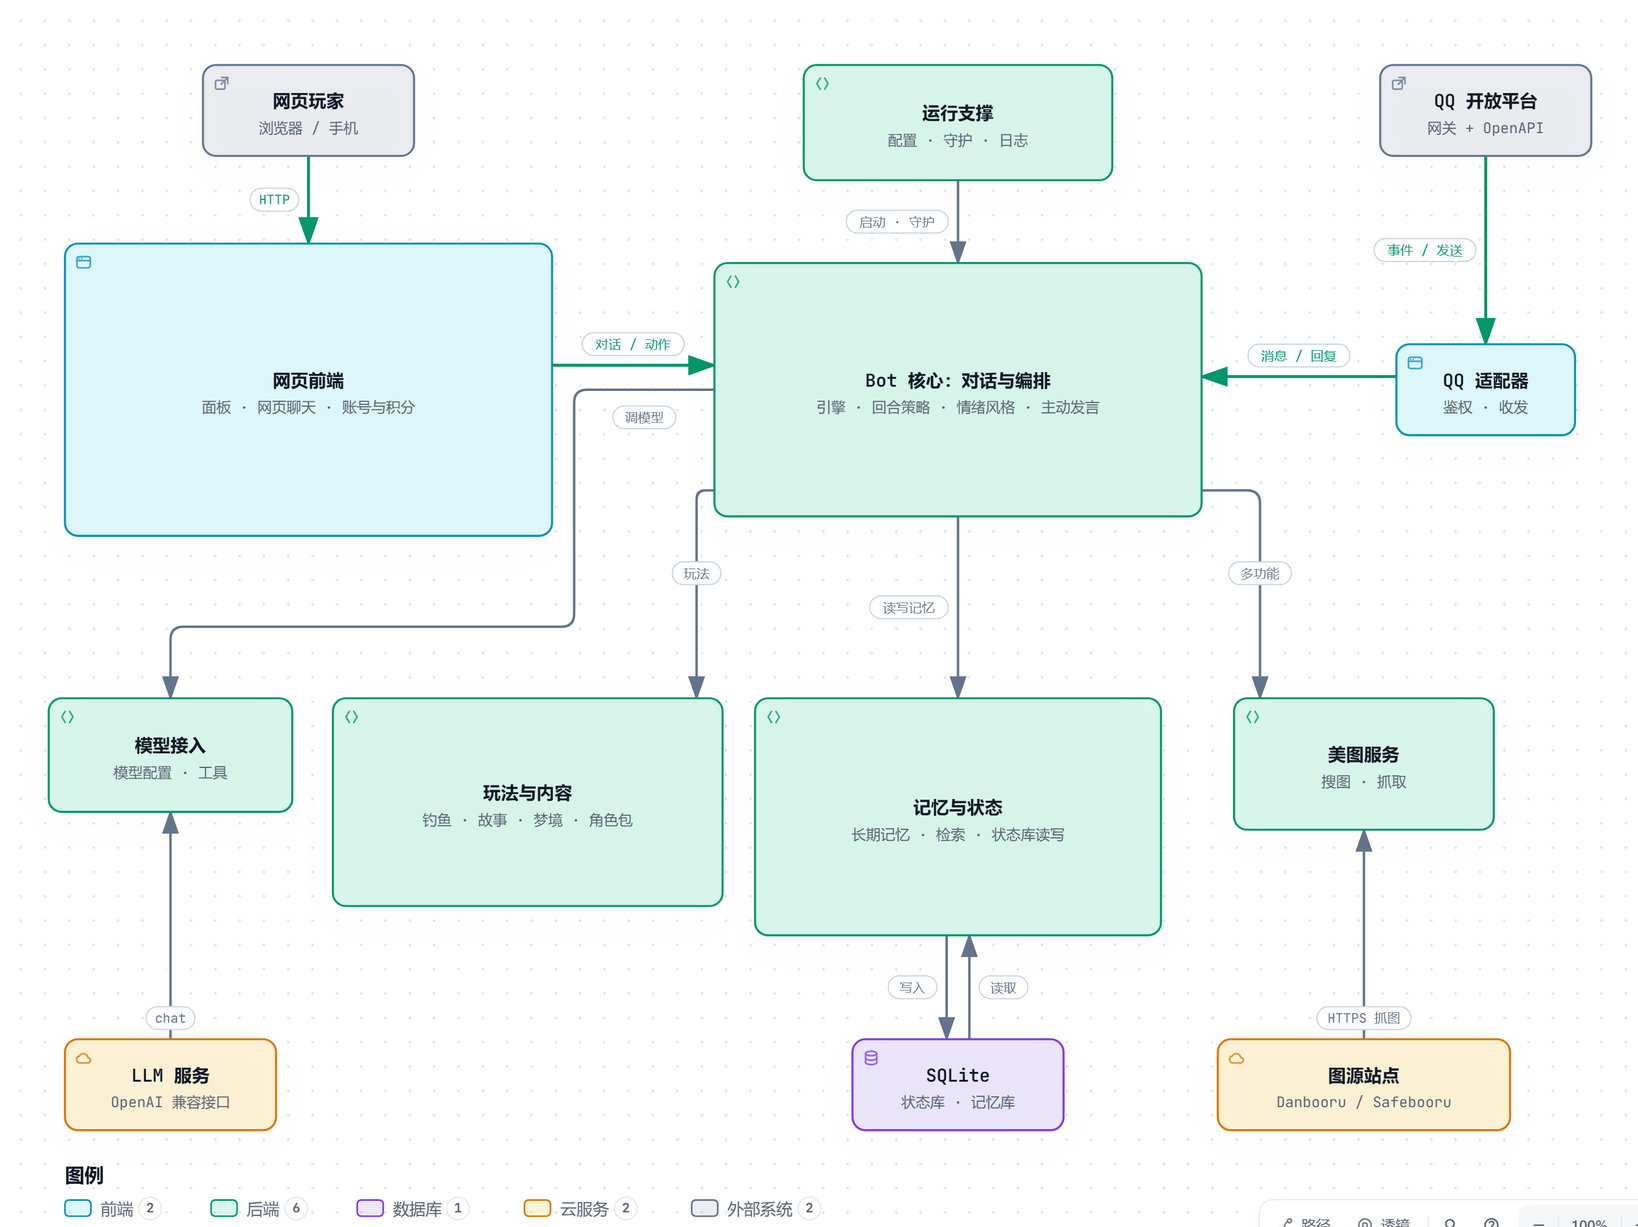
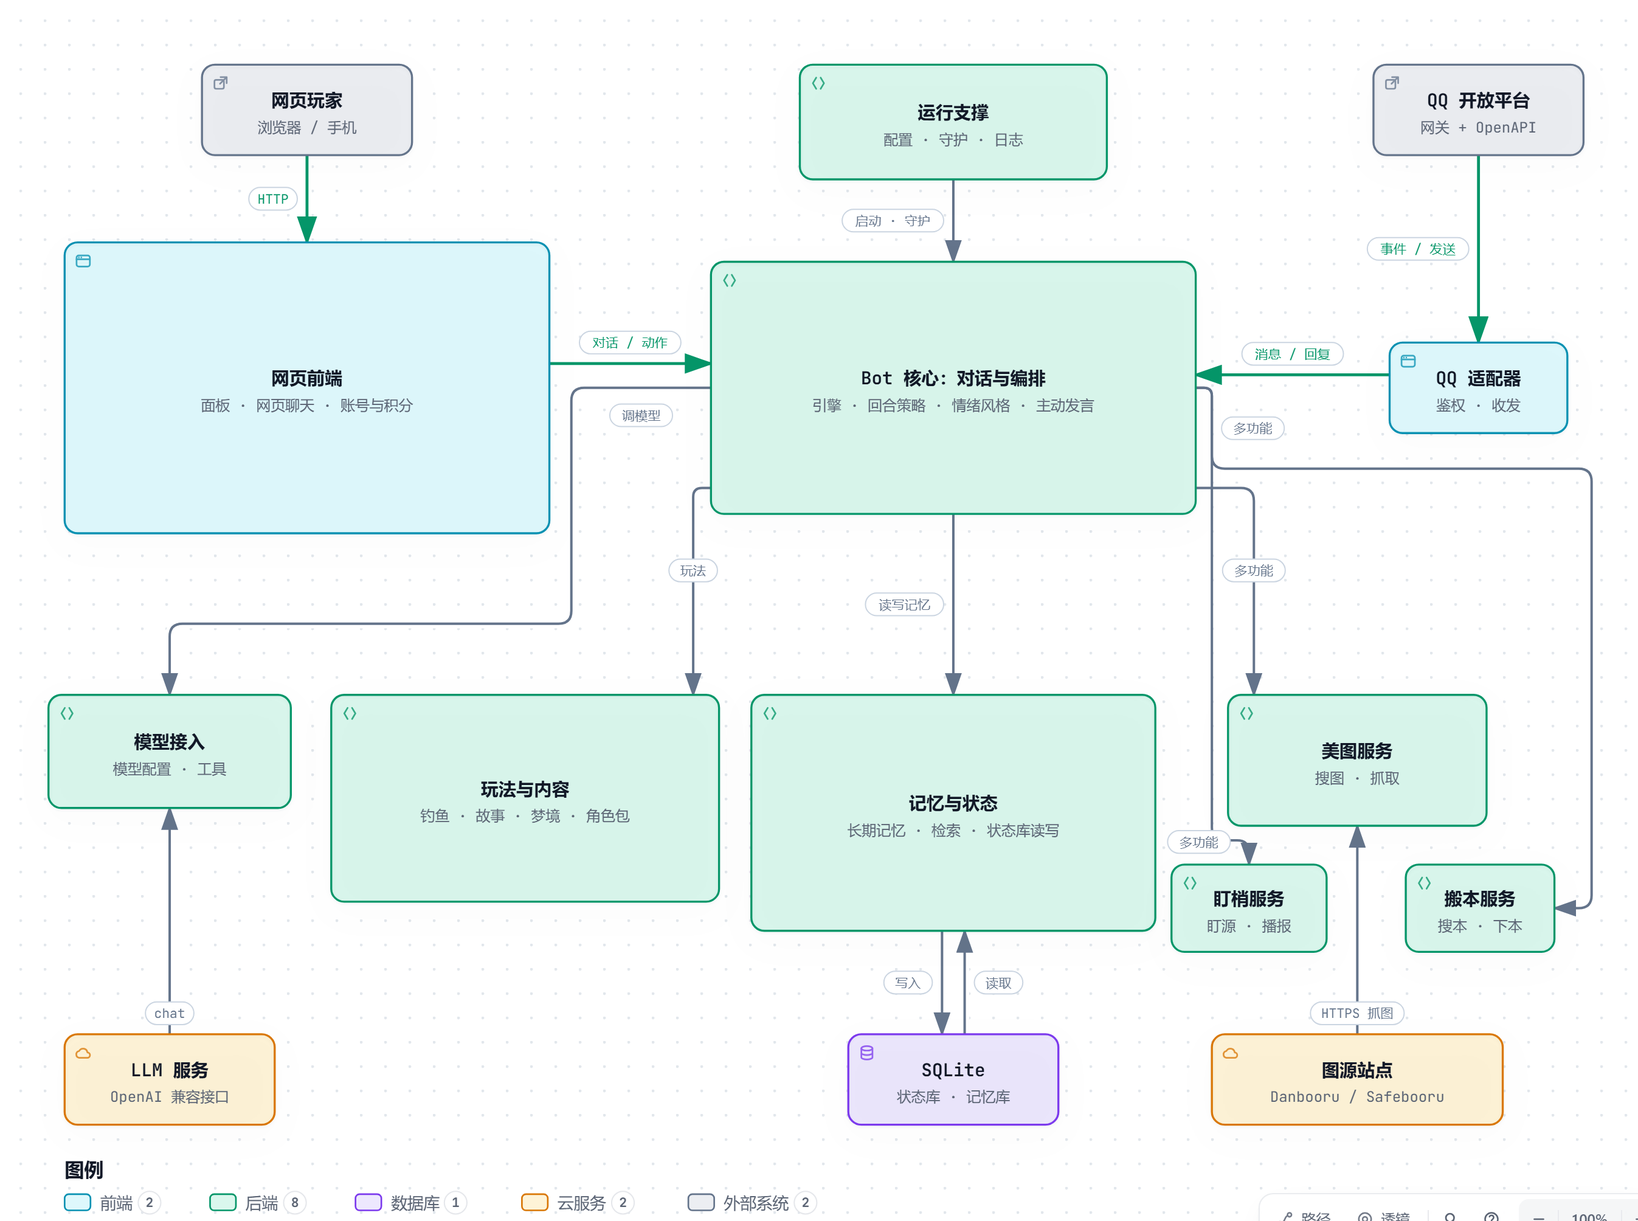
docs: README 架构图补盯梢/搬本多功能通路，新增英文 README (#77)
在现有总览架构图上新增「盯梢服务」「搬本服务」两个多功能组件与两条「多功能」通路（格式同「美图服务」），其余架构组成与「方框面积约为运行源码量」规则不变；README 首部加中英切换，新增 README.en.md 英文对照。仅文档，不改程序、不升版本、不挂 tag。

diff --git a/README.en.md b/README.en.md
@@ -1,0 +1,249 @@
+<p align="right">
+  <b>English</b> · <a href="README.md">简体中文</a>
+</p>
+
+# Megu-bot
+
+- Megu-bot is a bot project for long-term companionship and easy interaction. It began with a simple frustration: tabletop-style roleplay cannot be played in a lightweight way over the long run, and the ecosystem feels lonely. So it builds its own bot framework: put a character into a custom world, give each character a long-term memory layer and a set of multi-function components, then apply the fan character card you like (this project started with Megumin 😋), so you can interact with the character anytime, anywhere, on the chat platforms you already use 😋
+- Characters get a long-term memory system with a good cost/benefit ratio: memory does not weaken as the interaction gets longer, while token usage stays under control (about 5k tokens per bot reply, with ~90% of input served from cache).
+- You can connect the official Tencent QQ Open Platform. By design, QQ is only one of the platforms that can be connected: the QQ-specific implementation is about 2.0% of the runtime source (~1.4% of the whole project). The core is fully decoupled from the platform, so other platforms can be added as needed (~the author only uses QQ and WeChat, so it is not a priority~).
+- By design, no matter which platform you connect, you always interact with the same character body (memory unchanged, cognition unchanged — the character just needs to know who you are).
+
+The full project architecture is shown below (box area is approximately proportional to runtime source lines):
+
+![Megu-bot overview architecture: bot core, front-end platforms, and external interfaces](<docs/architecture-overview.png>)
+
+This project is written in Node.js and has no third-party npm dependencies. Everything downstream consumes only the unified `message` structure.
+This repository, [Binfufu/Megu-bot](https://github.com/Binfufu/Megu-bot), is its public v1 version: a public subset selected from the maintenance repository, not the complete private project.
+
+## What it can do, and what it cannot
+
+It can:
+
+- Interact in QQ DMs or group chats (it calls the OpenAI-compatible model endpoint you configure) and send replies to QQ.
+- Optionally deliver images (搬图) as a code-level multi-function component: on command, code searches for, downloads, and sends images; the model is never asked to do it. Off by default; see [section 4](#4-optional-code-level-image-delivery).
+
+It cannot do, or does not have by default:
+
+- The public version does not include official character content or assets (you can visit meguming.top to try fan-character interaction).
+- The template disables model tools, scheduled and proactive messages, extra memory, and stats/economy/growth by default.
+- It provides only one minimal demo instance and no multi-instance deployment guide.
+
+QQ events are received over an outbound WebSocket and messages are sent through the OpenAPI, so no public inbound port, callback service, panel, or reverse proxy is required.
+
+Licensed under [MIT](<LICENSE>). The code license does not grant rights to images, characters, or other third-party content; the terms of the model, QQ service, and image sources still apply. Model calls may cost money; access scope, data retention, and costs are controlled by the deployer. For versions and release notes, see the repository's Releases and [CHANGELOG.md](<CHANGELOG.md>).
+
+## What do I need to deploy locally?
+
+- Local environment: Git, and Node.js **22 or newer**. (Node must provide built-in `fetch`, `WebSocket`, and `node:sqlite`; use a currently supported recent version.)
+- Connecting QQ: You need to create a bot yourself on the [QQ Open Platform](https://q.qq.com/), obtain the AppID and ClientSecret, and configure test members, message permissions, and group-chat permissions there. Sandbox permissions follow the platform's actual settings; environment variables will not enable the sandbox for you.
+- Connecting an LLM: Normal conversation needs a working OpenAI-compatible model endpoint, model name, and key. The base URL and model in the template are replaceable examples; the key is empty.
+
+Notes:
+- You do not need to run `npm install`, and you do not need any other agent CLI.
+- For offline self-testing only, you do not need QQ or model credentials.
+
+## Step-by-step: 1. Clone and run the offline self-test
+
+The commands below assume there is no `.env` and no runtime data in the directory yet. Later relative-path commands run from the repository root.
+
+PowerShell:
+
+```powershell
+git clone https://github.com/Binfufu/Megu-bot.git
+Set-Location Megu-bot
+node --version
+node --input-type=module -e "import('node:sqlite').then(() => console.log('sqlite available'))"
+node scripts/selftest-public.js
+```
+
+POSIX shell (Linux / macOS):
+
+```sh
+git clone https://github.com/Binfufu/Megu-bot.git
+cd Megu-bot
+node --version
+node --input-type=module -e "import('node:sqlite').then(() => console.log('sqlite available'))"
+node scripts/selftest-public.js
+```
+
+[selftest-public.js](<scripts/selftest-public.js>) uses inline fixtures, fake network responses, and temporary directories; it does not read your QQ or model credentials and does not start the bot. If the last output line looks like `N passed, 0 failed` and the exit code is 0, the public subset passed in your environment. For what each suite covers and does not cover, see the "Public CI coverage" list in [CONTRIBUTING.md](<CONTRIBUTING.md>).
+
+Passing only proves that the public code can load locally and pass synthetic cases. It does **not** prove that QQ, the model, or image sources are reachable, nor is it the same as a full regression of the private repository.
+
+You can also explicitly select the public subset through the main entry point:
+
+```sh
+node scripts/selftest.js --public
+```
+
+The corresponding npm script in `package.json` is `npm run selftest:public`. Do not use the parameterless `node scripts/selftest.js` to test the public version: that is the full regression and needs suites that are not public, so it errors when files are missing. Do not fake a pass by deleting files, skipping suites, or editing counters by hand.
+
+## 2. Create the local configuration
+
+The repository does not ship complete character cards or asset packs. The "example assistant" below is a minimal original setup that explains identity and answer boundaries; rewrite it as needed. The persona file is the UTF-8 text `AGENTS.md` in the workspace. It is sent to the model endpoint as a prompt, so never put a model key, QQ secret, or other private data in it.
+
+PowerShell:
+
+```powershell
+New-Item -ItemType Directory -Force bots/demo, data/demo/workspace | Out-Null
+Copy-Item .env.example bots/demo/.env
+@'
+# Example assistant
+You are a concise, friendly example assistant.
+Answer the current user's question first; say when you are unsure, and never claim to have performed actions you did not perform.
+Do not claim access to the user's files, accounts, or devices, and never ask for passwords or keys.
+'@ | Set-Content -Encoding utf8 data/demo/workspace/AGENTS.md
+notepad bots/demo/.env
+```
+
+POSIX shell:
+
+```sh
+mkdir -p bots/demo data/demo/workspace
+cp .env.example bots/demo/.env
+cat > data/demo/workspace/AGENTS.md <<'EOF'
+# Example assistant
+You are a concise, friendly example assistant.
+Answer the current user's question first; say when you are unsure, and never claim to have performed actions you did not perform.
+Do not claim access to the user's files, accounts, or devices, and never ask for passwords or keys.
+EOF
+# Open bots/demo/.env in your own text editor.
+```
+
+These commands are for first-time creation; do not overwrite existing configuration or persona files. The persona, database, images, and logs you create are local data and live under the Git-ignored `data/` directory by default.
+
+Open `bots/demo/.env` and handle at least the keys in the table below. Every other value in the template can stay as is.
+
+| Key | What to do |
+|---|---|
+| `QQ_APP_ID` / `QQ_CLIENT_SECRET` | Fill in your own QQ bot credentials; empty in the template |
+| `QQBOT_LLM_BASEURL` / `QQBOT_LLM_MODEL` / `QQBOT_LLM_KEY` | Check that they point to your model service; enter the key locally |
+| `QQBOT_ACCESS_MODE=allowlist` / `QQBOT_IDS` | Keep `allowlist` and put the openids you authorize into `QQBOT_IDS`. With an empty list, nobody gets a reply |
+
+The template also presets the following, matching the demo directory layout; normally you do not need to change them:
+
+- `QQBOT_WORKSPACE=data/demo/workspace`: points to the persona directory you just created.
+- `QQBOT_HOME=data/demo/home`: an independent local home; the launcher may create a `sessions/` subdirectory inside it.
+- `QQBOT_STATE_DB`, `QQBOT_LOCK_FILE`, `QQBOT_LOG_FILE`: located in `data/demo/`.
+- `QQBOT_LEGACY_STATE_FILE=`: explicitly empty, meaning no import of an old JSON state.
+- `QQBOT_MOOD_THEME=demo` and `QQBOT_BODY_THEME=demo`: neutral theme identifiers; the two must match.
+
+**An openid is not a QQ number.** DMs usually use `user_openid`, and group members use `member_openid`; IDs from different bots or scenarios must not be mixed. Confirm the authorized target from your own platform events or local logs. `QQBOT_ADMIN_IDS` is a separate authorization for control commands; it is empty in the template, and you can leave it empty.
+
+See [.env.example](<.env.example>) for all configuration keys. By default the template turns off mood, stats/economy/growth, scheduled group warm-up, spontaneous life, greetings, announcements, extra memory and background summaries, model tools, and web capabilities; group-chat mode is `mention`, so the bot only handles a group message when it is @-mentioned. Do not switch the access mode to `open` just to get things running.
+
+## 3. Connect QQ and confirm it runs
+
+This step goes online. Run it only after you have filled in credentials and confirmed platform permissions and the authorized list. Without QQ credentials, config validation refuses to start; without a working model key, normal conversation cannot complete.
+
+Windows / PowerShell:
+
+```powershell
+.\bots\demo\run.cmd
+```
+
+[run.cmd](<bots/demo/run.cmd>) locates the repository root from its own position, selects `bots/demo/.env`, and then calls [launch.js](<scripts/launch.js>), so you can invoke it from any current directory using its full path.
+
+POSIX shell (from the repository root):
+
+```sh
+QQBOT_ENV_FILE=bots/demo/.env node scripts/launch.js
+```
+
+Calling PowerShell directly (from the repository root):
+
+```powershell
+$env:QQBOT_ENV_FILE = 'bots/demo/.env'
+node scripts/launch.js
+```
+
+Always set `QQBOT_ENV_FILE` explicitly. When it is unset, the program falls back in order to the repository-root `.env` and `bots/megumin/.env`, which may read a configuration you did not intend to use. Also, existing process environment variables usually take precedence over `.env` (the launcher handles `QQBOT_HOME` separately), so do not start the bot from a shell that already exports another set of QQ or model settings.
+
+### How to tell it is running
+
+Check two things:
+
+1. **QQ gateway connected.** When "机器人已就绪" (bot ready) appears in the log, the QQ gateway has authenticated and returned the bot identity. This step does not involve the model.
+2. **Model conversation works.** With an account that is in `QQBOT_IDS`, DM the bot or @-mention it in a group and send a sentence. If you receive a model-generated reply, the path from receiving the QQ message to requesting the model to sending the reply back to QQ works. If you get no reply, use section 6 to check events, authorization, and the model separately.
+
+Press Ctrl+C to stop the process. This document does not cover auto-start, daemons, or scheduled tasks. After changing local settings, restart the process to reload them.
+
+Logs are in `data/demo/bridge.log`; the state database and lock file are also in `data/demo/`. Logs may contain identity data and user content, so redact them before sharing. When troubleshooting, do not delete the running lock, database, or WAL/SHM files.
+
+## 4. Optional: code-level image delivery
+
+Image delivery (搬图) is off by default: once started, it does not fetch or send images automatically. Before enabling it, confirm the image-source sites, copyright, and the requirements of QQ and your jurisdiction yourself. The built-in filters cannot replace human review and do not guarantee that every result suits the target group.
+
+Edit only your local `.env` and keep `QQBOT_ACCESS_MODE=allowlist`:
+
+```dotenv
+QQBOT_MEITU=true
+QQBOT_MEITU_GROUPS=
+QQBOT_MEITU_ROOT=data/demo/images
+QQBOT_MEITU_ALIAS=data/demo/meitu-alias.json
+QQBOT_MEITU_LINES=data/demo/meitu-lines.json
+QQBOT_MEITU_SOURCE=auto
+```
+
+What each key means:
+
+- `QQBOT_MEITU_GROUPS`: group openids allowed to use image delivery, filled in by you locally. **An empty value rejects all groups**; it does not mean "everyone". It is independent of the `QQBOT_IDS` user authorization and cannot replace it.
+- `QQBOT_MEITU_ALIAS`: your own JSON mapping from "name → image-source tag". The public version does not provide a real character alias table. For example, write `{"example topic":"your_source_tag"}` and replace the placeholder tag with the actual query tag you have confirmed. If the file is missing or is not valid JSON, the program falls back to the default alias table (empty in the public version) and does not necessarily report an error, so "no error" does not mean "the alias is configured correctly".
+- `QQBOT_MEITU_LINES`: optional; overrides the fixed reply sentences. If the file is missing or invalid, the default sentence bank is used.
+- `QQBOT_MEITU_SOURCE`: valid values are `auto`, `danbooru`, `safebooru`. Whether it works depends on your local network. If a proxy is required, fill in `QQBOT_MEITU_PROXY`; the template does not provide a proxy address.
+- Default limits: at most 5 images per request, 30000 ms cooldown, 10485760 bytes per image, 90000 ms timeout. These are the existing defaults in the template, not a promise of success rate. Downloaded images go to `data/demo/images/`; together with their metadata, they are local runtime data.
+
+**About model cost:** A normal request that hits an alias does not call the model; if alias or name resolution misses, the program may call the bot model once to help interpret it. So you cannot assume every image-delivery request is free of model cost. In either case, retrieval, download, and sending are done by code, not by the model's file or network tools.
+
+After configuring, restart the process, then @-mention the bot in an authorized group and send a request like `发1张示例主题美图` (the name must correspond to a valid tag of your own). No image may mean missing permission, no results, blocked by content filters, proxy failure, timeout, or platform sending failure; check the local log to tell them apart. Passing the public self-test does not replace a real test of this external path.
+
+## 5. Optional: JM book search/download (requires a self-hosted JM sidecar)
+
+This feature is off by default. The actual JM search/download is performed by the **local JM sidecar service** that you run yourself; the Node side only calls it over an HTTP contract. The repo includes an optional sidecar implementation under `tools/jm-sidecar/` (Python; you install its dependencies and clone two upstream MIT projects yourself — see the [JM search doc](<docs/45-JM搜本.md>)); you can also use another implementation that follows the same contract. Without a deployed sidecar, turning the switch on only produces the fixed reply "JM service is not started"; it does not go online or send anything out.
+
+Pure digits are resolved **exactly by number** (work or unit), not through the site's keyword search; when a work has several unit books, the bot first replies with the unit list so the user can choose, then downloads/sends only that unit's PDF. Search no longer sends a collage or cover.
+
+Edit only your local `.env` and keep `QQBOT_ACCESS_MODE=allowlist`:
+
+```dotenv
+QQBOT_JM=true
+QQBOT_JM_GROUPS=
+QQBOT_JM_API=http://127.0.0.1:8790
+QQBOT_JM_MAX=5
+QQBOT_JM_COOLDOWN_MS=30000
+QQBOT_JM_ROOT=data/demo/jm-images
+QQBOT_JM_MAX_BYTES=10485760
+QQBOT_JM_TIMEOUT_MS=120000
+```
+
+- `QQBOT_JM_GROUPS`: group openids allowed to use this feature, filled in by you. **An empty value rejects all groups**, not "all allowed"; it is independent of `QQBOT_IDS`.
+- `QQBOT_JM_API`: sidecar address. The template defaults to `http://127.0.0.1:8790`; change it here if your sidecar listens on another port (this repo does not hard-code a port).
+- `QQBOT_JM_COOLDOWN_MS` only limits **book search**; downloads do not consume the cooldown (otherwise a search followed immediately by a download would be blocked by itself), and failures do not consume it either.
+- The rest are count limits, timeouts, and a legacy image limit kept for compatibility; all are template defaults, not a promise of success rate.
+
+After configuring, restart the process, then @-mention the bot in an authorized group and send `搜本 示例关键词` or `下本 示例编号`. If there is no response, first check: is the group in `QQBOT_JM_GROUPS`; is the sidecar running (you can self-check with `node scripts/jm-fetch-one.mjs --op health --api http://127.0.0.1:8790`). **The terms of use of JM/image sources, and platform or regional content requirements, are the deployer's responsibility**; this repo ships no JM content, images, or credentials.
+
+## 6. Where to look when something goes wrong
+
+- **Missing files or config errors at startup:** Check the current directory, the location `QQBOT_ENV_FILE` points to, the Node version and capabilities, the persona file you created, and whether credentials are empty. If it reports an unsupported theme or module, stop and check the commit you are using; do not switch to another instance's private default configuration.
+- **Connected but not replying:** First confirm that the QQ platform is actually delivering events to the bot, then check `allowlist`, the openid scope, and whether the bot was @-mentioned in the group. Not replying when the list is empty is expected behavior. `QQBOT_SANDBOX` only changes the log tag; it does not decide platform permissions.
+- **Model call failures:** Check your endpoint, model, key, provider permissions and balance, and the network. Whether image understanding is available also depends on the chosen model endpoint. Do not send your key to anyone.
+- **Turned on web or tool switches:** The public version does not support the web. `QQBOT_PANEL`, `QQBOT_ACCOUNTS`, and `QQBOT_GALLERY` must stay `false`. For example, if `QQBOT_PANEL` is on while the web module is missing, startup reports an explicit error; turn the switch off instead of copying files from a private deployment. Keep `QQBOT_TOOLS` and `QQBOT_TOOLS_MODEL_FN` `false` and leave the authorization list empty; the minimal example needs no search key.
+- **Want to run multiple instances at once:** You cannot just copy and start. Each instance needs its own QQ credentials, `QQBOT_ENV_FILE`, workspace, home, state database, memory database, lock, logs, images, and alias paths. This document only covers a single demo.
+
+Do not paste credentials, real openids, DM content, or unredacted logs into issues or PRs.
+
+## 7. Deep customization and contributing
+
+> The linked documents are currently written in Chinese.
+
+- Want to understand the code layering, the path a message takes, and where to change things to add an image source, content, or a platform adapter: [public architecture notes](<docs/37-公开架构说明.md>).
+- To configure your own character presentation content for the bot (mood, copy, style phrases): [content pack format](<docs/39-内容包格式.md>). The public version ships no official content pack and has no install/upgrade/uninstall flow.
+- World-level shared content (places, world copy, chronicle, common command copy, group warm-up and image-delivery lines) is provided via world packs: [world pack format](<docs/42-世界包格式.md>). The public version ships only one neutral example world, `content/worlds/example/`.
+- Where configuration values come from, optional parameter files, the boundaries of content-pack parameters, and behavior on validation failure: [parameter system](<docs/41-参数系统.md>).
+- To enable the optional JM book search/download (you need to deploy a local JM sidecar yourself; off by default): [JM search](<docs/45-JM搜本.md>).
+- What the project has delivered, what it explicitly does not do, and unscheduled future directions: [public roadmap](<docs/43-公开路线图.md>).
+- Before opening an issue or PR, read the [contributing guide](<CONTRIBUTING.md>). Issues and PRs should contain only synthetic reproductions; do not provide real galleries, alias data, or credentials.
+
+Verification has different levels: the public self-test, your local real-network verification, the private repository's full regression, GitHub CI, and official releases. When reporting results, state only the level you actually ran.

diff --git a/README.md b/README.md
@@ -1,3 +1,7 @@
+<p align="right">
+  <a href="README.en.md">English</a> · <b>简体中文</b>
+</p>
+
 # Megu-bot介绍
 
 - Megu-bot 是面向长期陪伴/轻松互动的机器人项目，设计灵感源于酒馆rp不能长期轻量化游玩/生态孤独，故自制bot框架，将角色放入自定义世界观中，为每个角色搭配长期记忆层系统与多功能组件，再套喜欢的同人角色卡（始于惠惠😋），让用户能够随时随地在常用的聊天平台与角色互动😋
